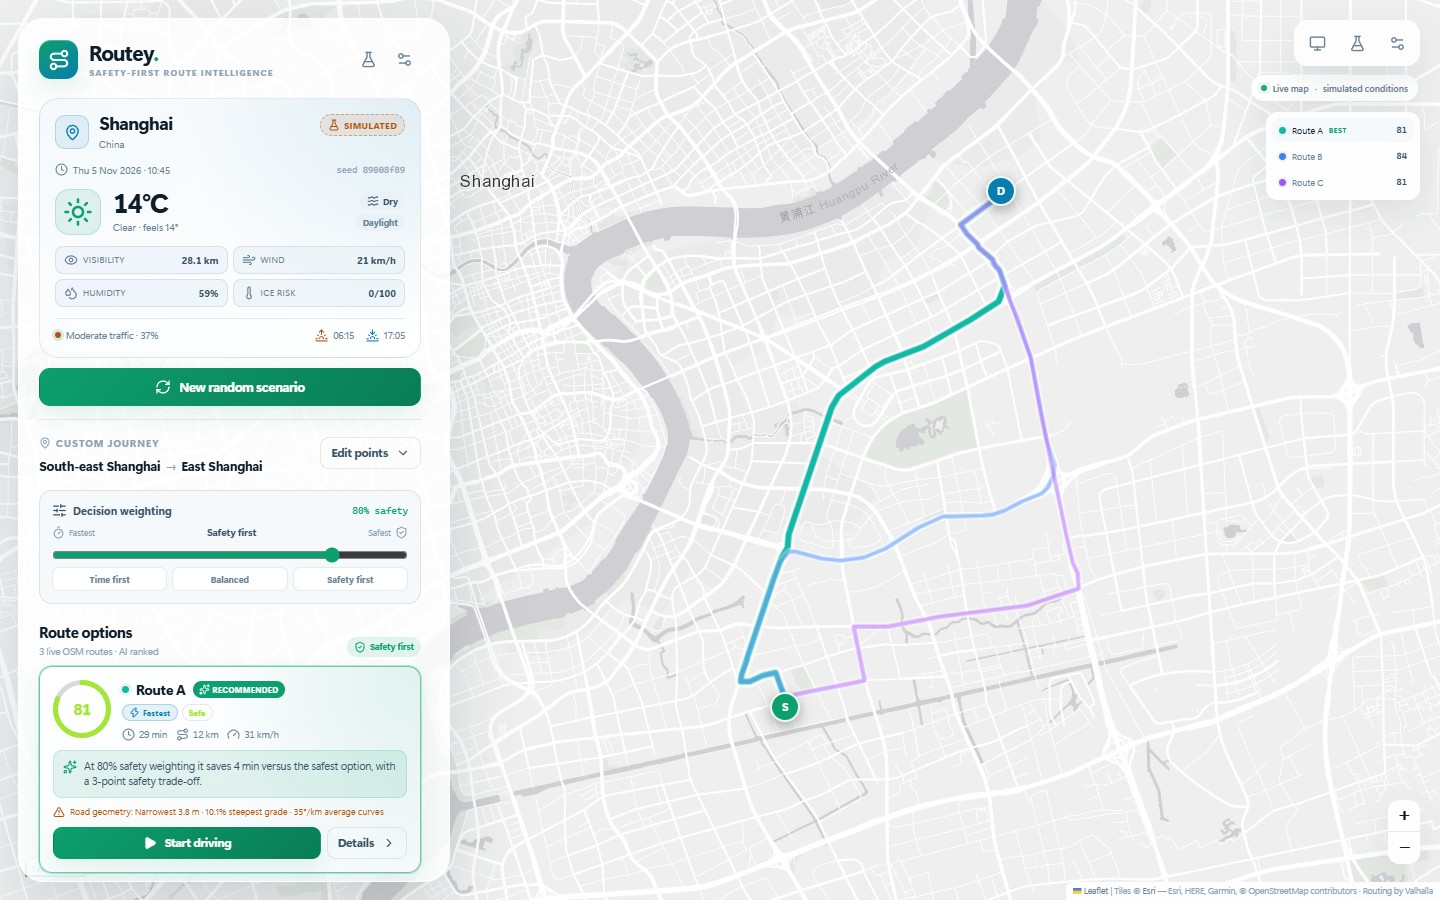
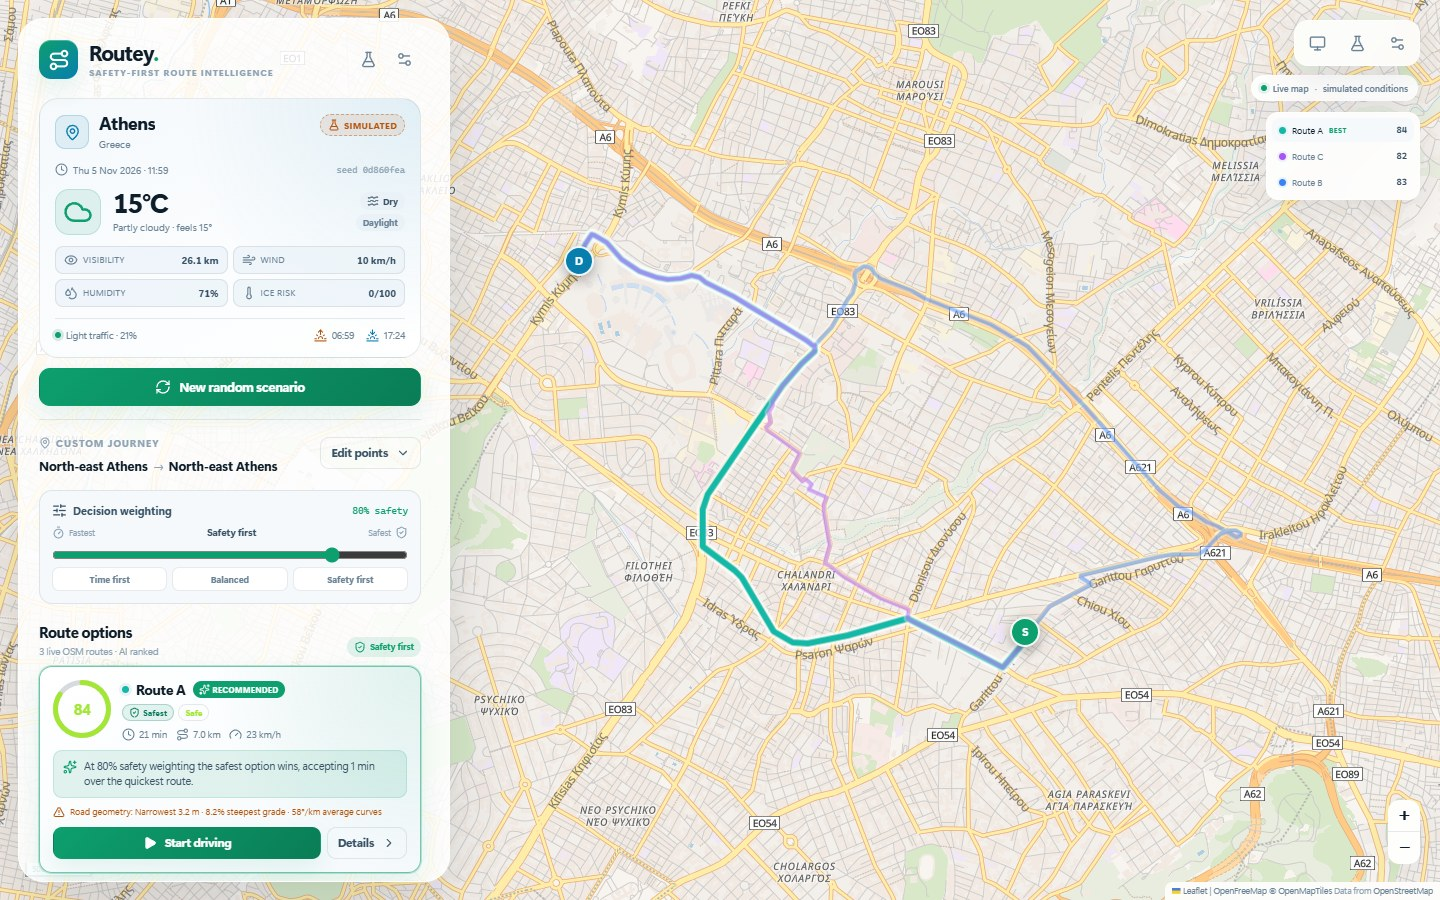
Switch basemap to OpenFreeMap vector tiles
Replace Esri Light/Dark Gray raster tiles with OpenFreeMap bright/dark vector styles via MapLibre GL and the official Leaflet plugin. Vector overzoom removes the Map data not yet available tiles; cap zoom at 20. Update README, screenshots, and E2E map check.

diff --git a/src/components/MapView.tsx b/src/components/MapView.tsx
@@ -1,5 +1,9 @@
 import { useEffect, useRef } from "react";
 import L from "leaflet";
+import { maplibreGL } from "@maplibre/maplibre-gl-leaflet";
+import { setWorkerUrl } from "maplibre-gl";
+import workerUrl from "maplibre-gl/dist/maplibre-gl-worker.mjs?worker&url";
+import "maplibre-gl/dist/maplibre-gl.css";
 import type { RouteData, Scenario } from "../../shared/types";
 import {
   formatDistance,
@@ -27,21 +31,15 @@ interface MapViewProps {
   driving: boolean;
 }
 
-const TILE_LAYERS = {
-  light: {
-    base: "https://server.arcgisonline.com/ArcGIS/rest/services/Canvas/World_Light_Gray_Base/MapServer/tile/{z}/{y}/{x}",
-    reference:
-      "https://server.arcgisonline.com/ArcGIS/rest/services/Canvas/World_Light_Gray_Reference/MapServer/tile/{z}/{y}/{x}",
-  },
-  dark: {
-    base: "https://server.arcgisonline.com/ArcGIS/rest/services/Canvas/World_Dark_Gray_Base/MapServer/tile/{z}/{y}/{x}",
-    reference:
-      "https://server.arcgisonline.com/ArcGIS/rest/services/Canvas/World_Dark_Gray_Reference/MapServer/tile/{z}/{y}/{x}",
-  },
+const MAX_ZOOM = 20;
+
+const MAP_STYLES = {
+  light: "https://tiles.openfreemap.org/styles/bright",
+  dark: "https://tiles.openfreemap.org/styles/dark",
 } as const;
 
-const ATTRIBUTION =
-  'Tiles &copy; <a href="https://www.esri.com/" target="_blank" rel="noreferrer">Esri</a> — Esri, HERE, Garmin, &copy; OpenStreetMap contributors · Routing by Valhalla';
+// MapLibre runs its tile parser in a Web Worker; Vite needs the URL handed to it.
+setWorkerUrl(workerUrl);
 
 function escapeHtml(value: string): string {
   return value
@@ -65,8 +63,7 @@ export default function MapView({
 }: MapViewProps) {
   const containerRef = useRef<HTMLDivElement>(null);
   const mapRef = useRef<L.Map | null>(null);
-  const tileRef = useRef<L.TileLayer | null>(null);
-  const referenceRef = useRef<L.TileLayer | null>(null);
+  const glLayerRef = useRef<ReturnType<typeof maplibreGL> | null>(null);
   const routeLayerRef = useRef<L.LayerGroup | null>(null);
   const markerLayerRef = useRef<L.LayerGroup | null>(null);
   const carMarkerRef = useRef<L.Marker | null>(null);
@@ -82,6 +79,7 @@ export default function MapView({
       attributionControl: true,
       preferCanvas: true,
       minZoom: 2,
+      maxZoom: MAX_ZOOM,
       worldCopyJump: true,
     });
     map.setView([24, 10], 2);
@@ -98,29 +96,24 @@ export default function MapView({
       window.clearTimeout(timer);
       map.remove();
       mapRef.current = null;
+      glLayerRef.current = null;
     };
   }, []);
 
   useEffect(() => {
     const map = mapRef.current;
     if (!map) return;
-    if (tileRef.current) map.removeLayer(tileRef.current);
-    if (referenceRef.current) map.removeLayer(referenceRef.current);
+    if (glLayerRef.current) {
+      map.removeLayer(glLayerRef.current);
+      glLayerRef.current = null;
+    }
 
-    const layers = TILE_LAYERS[theme];
-    tileRef.current = L.tileLayer(layers.base, {
-      attribution: ATTRIBUTION,
-      maxZoom: 20,
-      zIndex: 0,
-      detectRetina: false,
-    }).addTo(map);
-    tileRef.current.bringToBack();
-
-    referenceRef.current = L.tileLayer(layers.reference, {
-      maxZoom: 20,
-      zIndex: 1,
-      detectRetina: false,
-    }).addTo(map);
+    const layer = maplibreGL({
+      style: MAP_STYLES[theme],
+      maxZoom: MAX_ZOOM,
+    });
+    layer.addTo(map);
+    glLayerRef.current = layer;
   }, [theme]);
 
   useEffect(() => {

diff --git a/tests/e2e.py b/tests/e2e.py
@@ -124,9 +124,17 @@ def main() -> int:
                 page.locator(".route-card").first.locator(".recommended-ribbon").count()
                 == 1
             ), "recommended route is not sorted first"
-            assert page.locator(".leaflet-tile-loaded").count() > 0, "no map tiles"
+            canvas = page.locator(".maplibregl-canvas")
+            assert canvas.count() > 0, "no MapLibre canvas"
+            canvas_box = canvas.first.bounding_box()
+            assert canvas_box and canvas_box["width"] > 0 and canvas_box["height"] > 0, (
+                "MapLibre canvas has no size"
+            )
             assert "Access blocked" not in page.locator("body").inner_text(), (
                 "map provider returned an access-blocked tile page"
+            )
+            assert "OpenFreeMap" in page.locator(".leaflet-control-attribution").inner_text(), (
+                "OpenFreeMap attribution missing"
             )
             assert page.locator(".map-canvas").is_visible(), "map is not visible"
             first_city = page.locator(".scenario-place h2").inner_text()

diff --git a/README.md b/README.md
@@ -15,9 +15,9 @@ explainable safety score and a reason under every alternative.
 
 ## What it does
 
-- **Live map, real roads.** A Leaflet map uses Esri Light/Dark Gray basemap tiles with a
-  label overlay, and Valhalla routing. Every scenario uses real road geometry, real turn
-  maneuvers and real distances.
+- **Live map, real roads.** A Leaflet map uses OpenFreeMap vector tiles through MapLibre
+  GL, with `bright` and `dark` styles, and Valhalla routing. Every scenario uses real road
+  geometry, real turn maneuvers and real distances.
 - **Random world simulator.** The backend picks a real city from a curated global
   catalogue, samples two points within its road network, fetches live routes, and generates
   a seed-specific time, weather, daylight phase, traffic profile, and road-condition story.
@@ -40,8 +40,7 @@ explainable safety score and a reason under every alternative.
 - **Simulation Lab.** A backend test harness runs 3–8 fresh scenarios, verifies that places,
   weather signatures, times and seeds are all unique, and stores every run in SQLite.
 - **Auto / light / dark theme.** Auto follows the operating-system preference; manual
-  overrides are stored locally. The dark map uses Esri's Dark Gray basemap and reference
-  label overlay.
+  overrides are stored locally. The dark map uses OpenFreeMap's `dark` style.
 
 ![Routey dark interface](docs/routey-dark.jpg)
 
@@ -49,10 +48,10 @@ explainable safety score and a reason under every alternative.
 
 | Layer | Technology |
 | --- | --- |
-| Frontend | React 19, Vite 8, TypeScript, Leaflet, lucide-react |
+| Frontend | React 19, Vite 8, TypeScript, Leaflet, MapLibre GL, lucide-react |
 | Backend | Bun 1.3, Hono, Zod |
 | Database | SQLite via `bun:sqlite` (WAL mode) |
-| Map tiles | Esri Light/Dark Gray basemap + reference labels |
+| Map tiles | OpenFreeMap vector tiles (MapLibre GL), `bright` / `dark` styles |
 | Routing | Valhalla public OSM router (`valhalla1.openstreetmap.de`) |
 | Geocoding | Nominatim (`nominatim.openstreetmap.org`) |
 | Optional AI narrative | Any OpenAI-compatible chat-completions endpoint, e.g. OpenRouter |
@@ -190,7 +189,7 @@ SQLite tables created automatically:
 | `lab_run_scenarios` | Links Lab runs to generated scenarios |
 
 Route geometry and maneuvers are real map data; generated conditions and scores are stored
-alongside them for auditability. Map raster tiles are not stored in SQLite.
+alongside them for auditability. Map tiles are not stored in SQLite.
 
 ## API
 
@@ -335,9 +334,10 @@ Dockerfile and provide the same persistent volume/environment variables.
 - Public Valhalla and Nominatim have usage policies and rate limits. Routey serializes and
   caches these requests, but a production deployment should use a self-hosted router or a
   commercial provider with a proper plan.
-- Basemap tiles are provided by Esri's public ArcGIS services. Review Esri's terms and use
-  an appropriate Esri plan/key for substantial or commercial traffic. Routing and
-  geocoding still depend on public OSM Valhalla/Nominatim services.
+- Basemap tiles are provided by OpenFreeMap's public instance: free, no API key, no request
+  limits, and commercial use is allowed. Attribution is required. OpenFreeMap is open
+  source, so it can be self-hosted if you need an SLA. Routing and geocoding still depend
+  on public OSM Valhalla/Nominatim services.
 - LLM explanations are optional; provide a server-side key through environment variables.
 - The app has no authentication because it is a local/demo project. Add auth/rate limiting
   before exposing a write-heavy public deployment.
@@ -369,5 +369,6 @@ data/              SQLite database (gitignored)
 
 ## Credits
 
-Basemap tiles © Esri. Map/routing data © OpenStreetMap contributors. Routing by Valhalla.
-Place search by Nominatim. Built with Bun, Hono, React, Vite and Leaflet.
+Basemap tiles © OpenFreeMap and OpenMapTiles, map data © OpenStreetMap contributors.
+Routing by Valhalla. Place search by Nominatim. Built with Bun, Hono, React, Vite, Leaflet
+and MapLibre GL.
